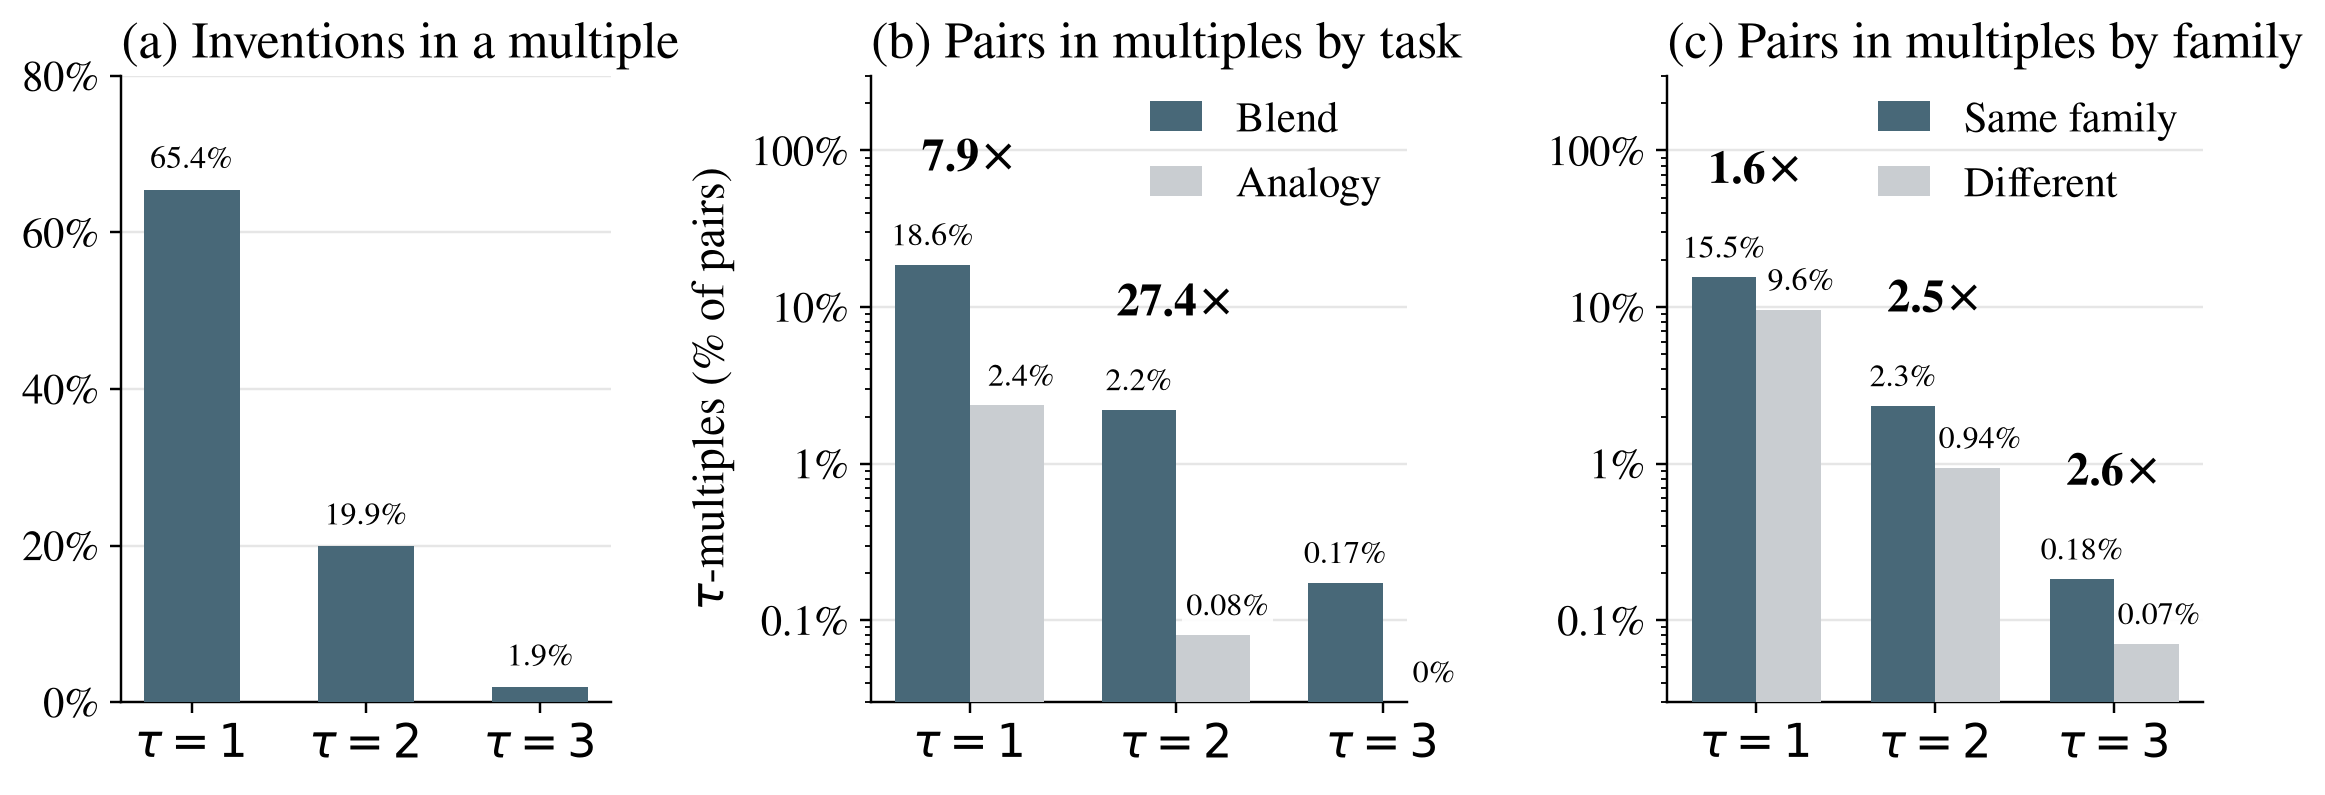
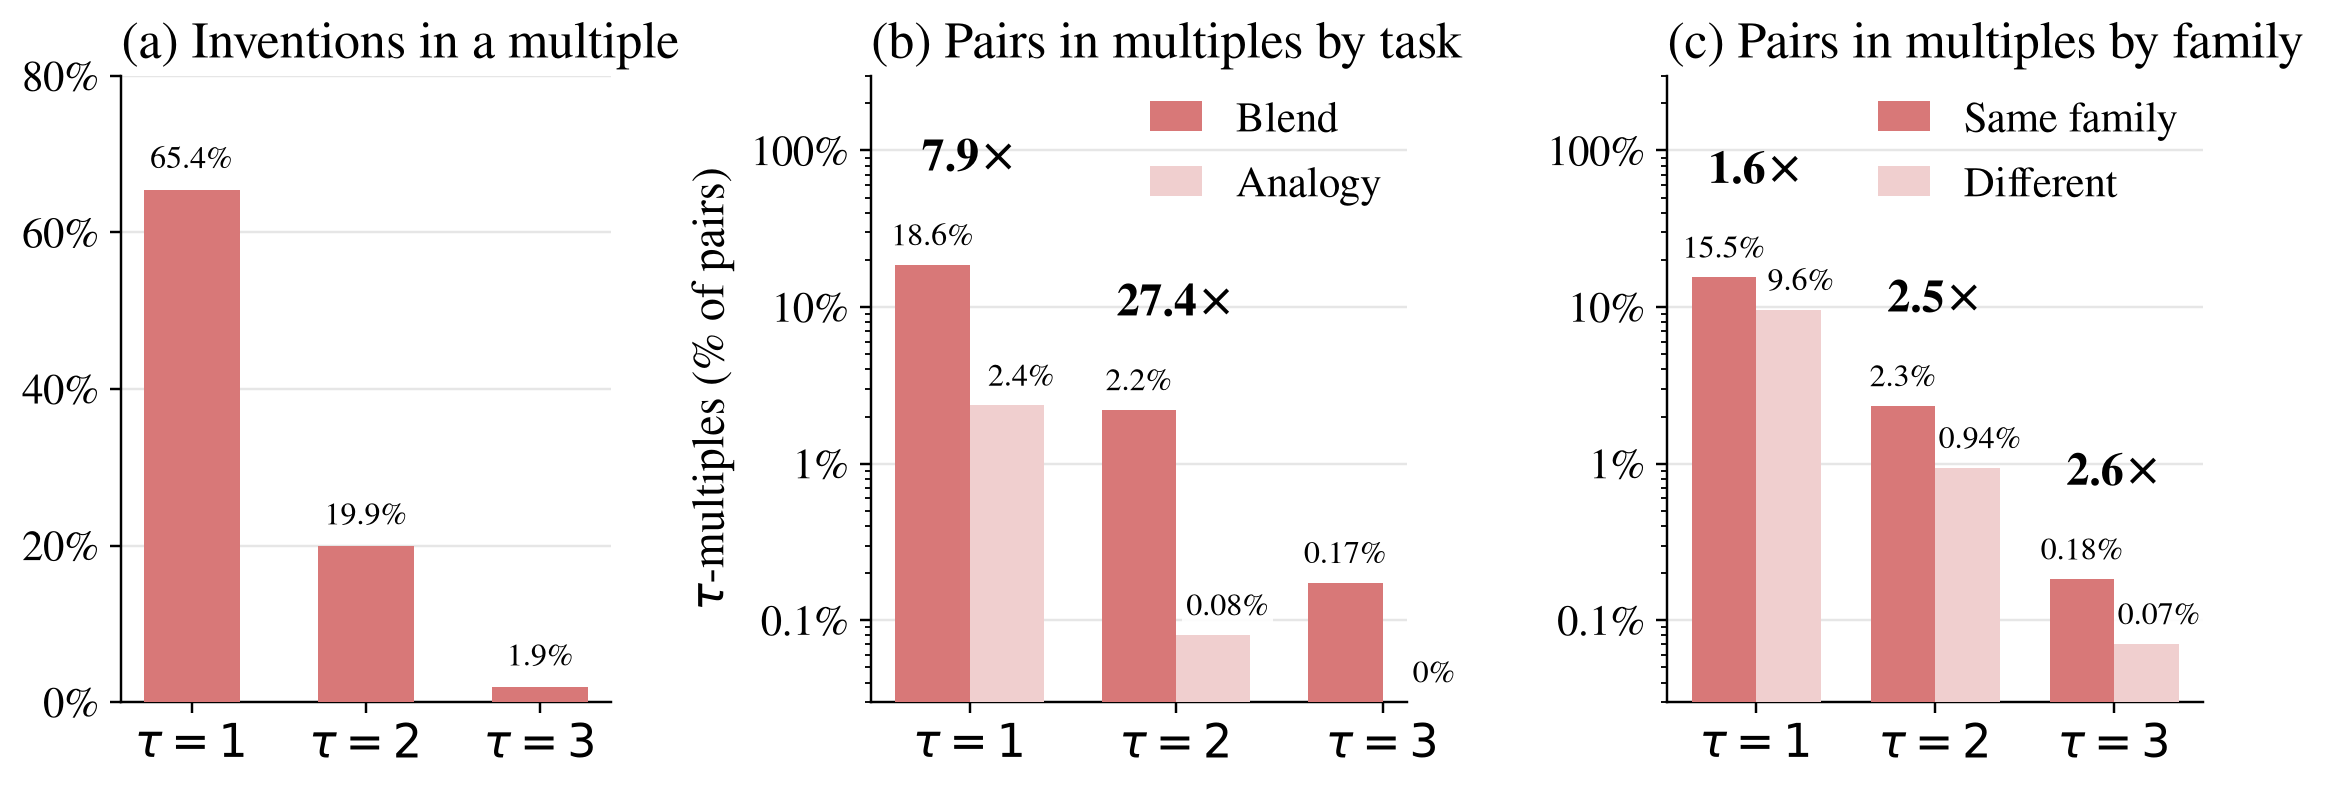
plot_tau_multiples: salmon palette matching Table 4's rows (dark salmon / light tint) for all panels

diff --git a/src/kg_creat/scripts/plot_tau_multiples.py b/src/kg_creat/scripts/plot_tau_multiples.py
@@ -19,10 +19,10 @@ import numpy as np
 
 SRC = Path("data/kg_creat/kombine_test30/analysis/inventive_multiples.json")
 OUT = Path("docs/reports/2026-09-01_kg_creat_inventive_multiples/figures")
-# One palette for all three panels: the same-family slate and light grey (Table 4 above it carries the salmon/peach task tints)
-BLEND, ANALOGY = "#486878", "#C9CDD1"
-SAME, DIFF = "#486878", "#C9CDD1"
-INV = "#486878"
+# One palette for all three panels: the salmon of Table 4's matched rows above it, dark for the first bar and a light tint for the second
+BLEND, ANALOGY = "#D87878", "#F0CFCF"
+SAME, DIFF = "#D87878", "#F0CFCF"
+INV = "#D87878"
 plt.rcParams.update({"font.family": "serif", "font.serif": ["Nimbus Roman", "Times New Roman", "DejaVu Serif"], "font.size": 16,
                      "text.color": "black", "axes.labelcolor": "black", "xtick.color": "black", "ytick.color": "black", "axes.edgecolor": "black"})
 YMIN = 0.03                                      # log-axis floor; a zero rate is written just above it
